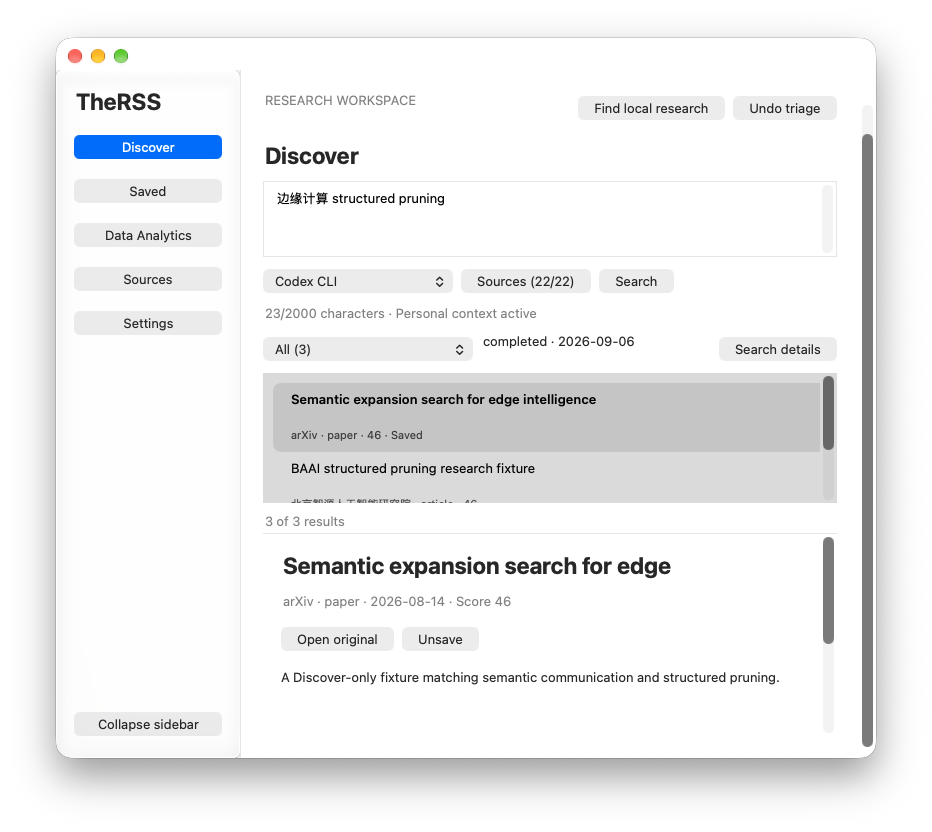
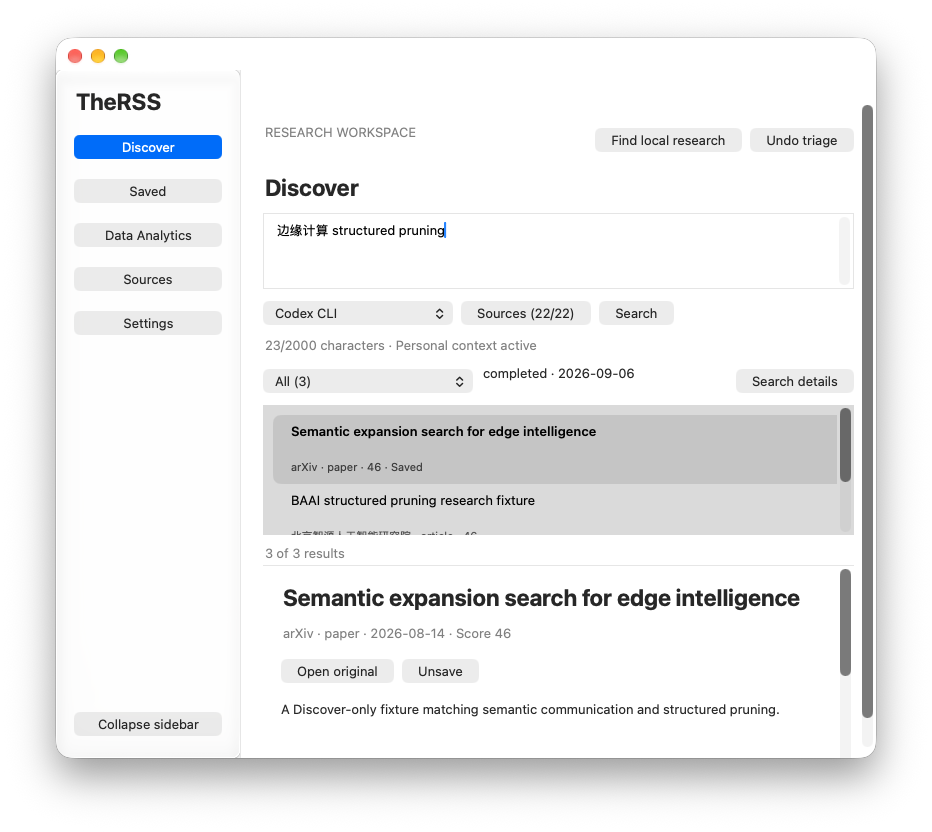
fix: reset native reading after scrollbar layout

diff --git a/native/appkit/node.mm b/native/appkit/node.mm
@@ -220,9 +220,9 @@ static CGFloat TRNumber(NSDictionary *spec, NSString *key, CGFloat fallback) { r
   for (TRNode *node in existing.allValues) [node removeFromSuperview];
   self.nodes = children;
   if ([kind isEqual:@"scroll"] && old && (![old[@"clearRevision"] ?: @0 isEqual:spec[@"clearRevision"] ?: @0] || ![[old[@"children"] firstObject][@"id"] isEqual:[spec[@"children"] firstObject][@"id"]])) {
-    [((NSScrollView *)self.control).contentView scrollToPoint:NSZeroPoint];
+    self.resetScrollAfterLayout = YES;
   }
-  if ([spec[@"adaptiveScroll"] boolValue] && old && ![[old[@"children"] lastObject][@"id"] isEqual:[spec[@"children"] lastObject][@"id"]]) [((NSScrollView *)self.control).contentView scrollToPoint:NSZeroPoint];
+  if ([spec[@"adaptiveScroll"] boolValue] && old && ![[old[@"children"] lastObject][@"id"] isEqual:[spec[@"children"] lastObject][@"id"]]) self.resetScrollAfterLayout = YES;
   self.applying = NO; self.needsLayout = YES;
 }
 - (CGFloat)preferredWidth {
@@ -331,6 +331,13 @@ static CGFloat TRNumber(NSDictionary *spec, NSString *key, CGFloat fallback) { r
     [input setFrameSize:NSMakeSize(scroll.contentSize.width,MAX(input.frame.size.height,scroll.contentSize.height))];
   }
   for (TRNode *child in self.nodes) { child.needsLayout = YES; [child layoutSubtreeIfNeeded]; }
+  if (self.resetScrollAfterLayout && [self.control isKindOfClass:NSScrollView.class]) {
+    // Legacy scrollers can adjust the clip origin when the replacement document
+    // changes size. Reset only after AppKit has laid out both document and bars.
+    NSScrollView *scroll = (NSScrollView *)self.control; [scroll layoutSubtreeIfNeeded];
+    [scroll.contentView scrollToPoint:NSZeroPoint]; [scroll reflectScrolledClipView:scroll.contentView];
+    self.resetScrollAfterLayout = NO;
+  }
   if (splitLayout) self.applying = wasApplying;
 }
 - (NSInteger)numberOfRowsInTableView:(NSTableView *)table { return [self.spec[@"rows"] count]; }

diff --git a/native/appkit/bridge.mm b/native/appkit/bridge.mm
@@ -148,6 +148,10 @@ static napi_value interactFixture(napi_env env, napi_callback_info info) {
   } else if ([action isEqual:@"scroll"] && [node.control isKindOfClass:NSScrollView.class]) {
     NSScrollView *scroll = (NSScrollView *)node.control; CGFloat y = MIN(MAX(0,[input[@"value"] doubleValue]), MAX(0,scroll.documentView.bounds.size.height-scroll.contentSize.height));
     [scroll.contentView scrollToPoint:NSMakePoint(0,y)]; [scroll reflectScrolledClipView:scroll.contentView];
+  } else if ([action isEqual:@"scroller"] && [node.control isKindOfClass:NSScrollView.class]) {
+    if (![input[@"value"] isEqual:@"legacy"] && ![input[@"value"] isEqual:@"overlay"]) return fail(env,"Unsupported fixture scroller style");
+    ((NSScrollView *)node.control).scrollerStyle = [input[@"value"] isEqual:@"legacy"] ? NSScrollerStyleLegacy : NSScrollerStyleOverlay;
+    node.needsLayout = YES; [host.root layoutSubtreeIfNeeded];
   } else if ([action isEqual:@"divider"] && [node.control isKindOfClass:NSSplitView.class]) {
     CGFloat value = [input[@"value"] doubleValue];
     if (value < [node.spec[@"minWidth"] doubleValue] || value > [node.spec[@"maxWidth"] doubleValue]) return fail(env,"Invalid fixture divider position");

diff --git a/native/appkit/ui.h b/native/appkit/ui.h
@@ -58,6 +58,7 @@ struct TREvent { std::string json; bool secret; bool delivered = false; __weak T
 @property(nonatomic) CGFloat lastWidth;
 @property(nonatomic) CGFloat preferredSplit;
 @property(nonatomic) CGFloat stackedFraction;
+@property(nonatomic) BOOL resetScrollAfterLayout;
 - (instancetype)initWithHost:(TRHost *)host spec:(NSDictionary *)spec;
 - (void)update:(NSDictionary *)spec;
 - (CGFloat)heightForWidth:(CGFloat)width;

diff --git a/docs/audits/2026-09-06-full-appkit/audit.md b/docs/audits/2026-09-06-full-appkit/audit.md
@@ -34,6 +34,10 @@ Current executable results and fingerprints are recorded in verification.json. T
 
 Protected-main publication follows the repository PR workflow and exact-path staging. The install receipt verifies SQLite preservation and package fingerprints. After verified replacement, only this task's generated previous-app/database pair is moved to Trash under the user's existing cleanup authorization; unrelated backups and data remain untouched.
 
+## CI regression closure
+
+The first remote desktop run (34039601779) passed compatibility E2E but found a 4-point reading-origin residue after switching records with legacy scrollbars in a 1024×677 window. The same case failed locally before the fix. Record/route changes now mark a reset and apply it only after AppKit finishes document and scroller layout; the verifier still requires exactly zero. The compact legacy-scroller run, repackaged build and actual replacement installation each passed all 12 native groups. An independent native review confirmed the correction. The appearance fixture accepts both the documented accessibility-Aqua name and the normalized Aqua name returned by AppKit, while still requiring light appearance and the opaque contrast branch. Verification fingerprints and the new backup-pair cleanup were refreshed after this replacement.
+
 ## Evidence limits and rollback
 
 No live source/model/agent query or real llm-wiki write was performed by these fixtures. They do not upgrade paper/source evidence or establish physical trackpad momentum, a VoiceOver user study, complete accessibility compliance, or real-provider performance. Source-owned Objective-C++ is verified by compilation and actual native execution; TypeScript coverage is not presented as C++ coverage.
